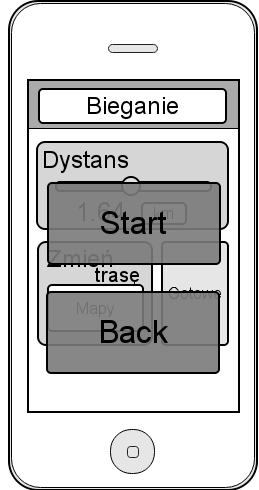
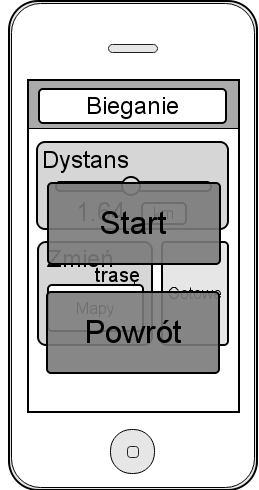
zpl, zpl..

Changed region(s): [[0.3089, 0.6429, 0.7104, 0.7041]]

diff --git a/prototyp.tex b/prototyp.tex
@@ -1,21 +1,22 @@
 \input{./main}
 \begin{document}
-\titlep{Prototyp interfejsu na iOS}{1.1}
+\titlep{Prototyp interfejsu do iOS}{1.2}
 \chist{1.0 & 2014-01-03 & Powstanie dokumentu & Łukasz Czapliński\\
         1.1 & 2014-01-18 & Tłumaczenie ekranów & Łukasz Czapliński\\
+        1.2 & 2014-01-19 & Poprawki językowe & Łukasz Czapliński\\
         }
 \setcounter{tocdepth}{2}
 \tableofcontents
 \clearpage
 \section{Wstęp}
 \subsection{Cel dokumentu}
-\noindent Ninejszy dokument opisuje makietę interfejsu aplikacji ,,Iron Coach'' w wersji na iOS. Ma ona służyć za podstawę dla gotowej aplikacji. Wymienione zostały problemy, na jakie należy zwrócić uwagę podczas implementacji, razem z sugerowanymi rozwiązaniami. W żadnym wypadku nie jest to kompletna lista i wszystkie aspekty powinny zostać przetestowane.
+\noindent Ninejszy dokument opisuje makietę interfejsu aplikacji ,,Iron Coach'' w wersji przeznaczonej dla systemu iOS. Ma ona służyć za podstawę do opracowania ostatecznego interfejsu aplikacji. Wymienione zostały problemy, na jakie należy zwrócić uwagę podczas implementacji, razem z sugerowanymi rozwiązaniami. W żadnym wypadku nie jest to lista kompletna i wszystkie aspekty powinny zostać przetestowane.
 \subsection{Struktura dokumentu}
-\noindent Dokument ten podzielony jest na dwie sekcje: pierwszą z nich stanowi wstęp, natomiast drugą właściwa makieta wraz z opisem. Druga sekcja podzielona jest na podsekcje, z których każda opisuje jeden ekran aplikacji. W każdej podsekcji znajduje się makieta ekranu oraz opis przycisków (wraz z ekranami do których powinny prowadzić). Dodatkowo czasem znajduje się też lista ostrzeżeń -- potencjalnych błędnych danych, jakie może wprowadzić użytkownik na danym ekranie aplikacji.
+\noindent Dokument jest podzielony na dwie sekcje: pierwszą z nich stanowi wstęp, natomiast drugą właściwa makieta wraz z opisem. Druga sekcja jest podzielona na podsekcje, z których każda opisuje jeden ekran aplikacji. W każdej podsekcji znajduje się makieta ekranu oraz opis przycisków (wraz z ekranami, do których powinny prowadzić). Dodatkowo czasem znajduje się też lista ostrzeżeń o potencjalnie błędnych danych, które użytkownik może wprowadzić na danym ekranie aplikacji.
 \section{Makieta}
 \subsection{Ekran główny}
 \subsubsection{Opis}
-\noindent Jest to ekran witający użytkownika po uruchomieniu aplikacji ,,Iron Coach''. Powinien zmieniać się, odzwierciedlając postępy użytkownika: jeśli użytkownik często biega, to powinien znaleźć się tam przycisk od tej właśnie aktywności. Jeśli jest to pierwsze uruchomienie aplikacji, to powinien zachęcić użytkownika do aktywności. Zamieszczono przykładowe makiety dla pierwszego uruchomienia oraz dla użytkownika biegającego często.
+\noindent Jest to ekran witający użytkownika po uruchomieniu aplikacji ,,Iron Coach''. Powinien tak się zmieniać aby, odzwierciedlając postępy użytkownika: jeśli użytkownik często biega, to powinien znaleźć się tam przycisk prowadzący do modułu aplikacji odpowiadającego za bieganie. Jeśli jest to pierwsze uruchomienie aplikacji, to powinny znaleźć się na nim zachęty dla użytkownika do pierwszego treningu z aplikacją. Zamieszczono przykładowe makiety ekranu dla pierwszego uruchomienia aplikacji oraz dla użytkownika biegającego często.
 \subsubsection{Ekrany}
 \begin{minipage}{0.5\textwidth}
   \label{G1}
@@ -29,16 +30,16 @@
 Przyciski:\\
 \begin{description}
   \item[Start] -- powinien prowadzić do ekranu wyboru sportów (rys. ~\ref{S1}). Tekst powinien odzwierciedlać stan treningu użytkownika -- jak długo już trenuje z aplikacją, szczególne osiągnięcia.
-  \item[Ikonka ustwień] -- powinna prowadzić do ekranu opcji. Nie powinna mieć na sobie żadnego tekstu. Ekran opcji powinien zawierać różne opcje, w zależności od platformy i implementacji, pozwalające na dopasowanie działania aplikacji do oczekiwań użytkownika.
+  \item[Ikonka ustwień] -- powinna prowadzić do ekranu opcji. Nie powinna mieć na sobie żadnego tekstu. Ekran opcji powinien zawierać różne opcje, zależnie od platformy i implementacji, pozwalające na dopasowanie działania aplikacji do oczekiwań użytkownika.
   \item[Iron Coach] -- napis na górnym pasku powinien zawierać powiadomienia o nowych dla użytkownika rzeczach (osiągnięciach, otrzymanych nagrodach). Mogą to być przyciski do bardziej szczegółowych opisów.
-  \item[Ikonka kalendarza] -- powinna pozwalać na przejście do ekranu, w którym użytkownik może zobaczyć poprzednie treningi z aplikacją i ich podsumowania.
-  \item[Ikonka skrótów] -- po jej naciśnięciu użytkownik powinien mieć możliwosć modyfikacji ekranu głównego przez dodanie nowych przycisków -- p. dodatkowe przyciski, poniżej. Powinno odbywać się to w stylu zgodnym z platformą na jakiej aplikacjia jest uruchomiona.
-  \item[Dodatkowe przyciski] -- powinny pojawiać się w miarę treningu użytkownika z aplikacją, np. jeśli dużo biega to powinien pojawić się tu przycisk ,,Bieganie'', taki sam jak w ekranie wyboru sportów (rys.~\ref{S1}, rys.~\ref{PR}). Ułatwi to użytkownikowi szybkie rozpoczynanie treningów, bez zbędnego kilkania.
+  \item[Ikonka kalendarza] -- powinna umożliwiać przejście do ekranu, w którym użytkownik może zobaczyć poprzednie treningi z aplikacją i ich podsumowania.
+  \item[Ikonka skrótów] -- po jej naciśnięciu użytkownik powinien mieć możliwość modyfikacji ekranu głównego przez dodanie nowych przycisków -- por. dodatkowe przyciski, poniżej. Powinno odbywać się to w stylu zgodnym z platformą, na której aplikacja jest uruchomiona.
+  \item[Dodatkowe przyciski] -- powinny pojawiać się w miarę treningu użytkownika z aplikacją, np. jeśli dużo biega, to powinien pojawić się tu przycisk ,,Bieganie'', taki sam jak w ekranie wyboru sportów (rys.~\ref{S1}). Ułatwi to użytkownikowi szybkie rozpoczynanie treningów, bez zbędnego kilkania.
 \end{description}
 \end{minipage}
 \subsection{Sporty}
 \subsubsection{Opis}
-\noindent Podobnie jak w ekranie głównym, ekran ten powinien dopasowywać się do użytkownika. Tutaj powinno odbywać się to przez pojawianie się dodatkowego tekstu na przyciskach, opisującego stan treningu w danym trybie. Aplikacja powinna pozwalać na dodanie nowych trybów treningowych. Z tego ekranu powinno być możliwe przejście do każdego z dostępnych aktualnie trybów treningowych.
+\noindent Podobnie jak w ekranie głównym, ekran ten powinien dopasowywać się do użytkownika. Tutaj powinno odbywać się to przez pojawianie się dodatkowego tekstu na przyciskach, opisującego stan treningu w danym trybie. Aplikacja powinna umożliwiać dodawanie nowych trybów treningowych. Z tego ekranu powinno być możliwe przejście do każdego z dostępnych aktualnie trybów treningowych.
 \subsubsection{Ekran}
 \begin{minipage}{0.5\textwidth}
   \label{S1}
@@ -51,14 +52,14 @@ Przyciski:\\
 \begin{minipage}{0.5\textwidth}
 Przyciski:\\
 \begin{description}
-  \item[Pobierz więcej] -- powinien pozwalać na dodanie (np. pobranie ze sklepu, instalacja z wcześniej pobranej paczki lub wpisanie klucza) dodatkowego trybu treningowego.
+  \item[Pobierz więcej] -- powinien umożliwiać dodanie (np. pobranie ze sklepu, zainstalowanie z wcześniej pobranej paczki lub wpisanie klucza) dodatkowego trybu treningowego.
   \item[Powrót] -- cofnięcię się do poprzedniego ekranu (w tym przypadku głównego).
   \item[Dodatkowe przyciski] -- dla każdego dostępnego trybu treningowego powinien być osobny przycisk (np. rys.~\ref{PR}), którego wygląd powinien odzwierciedlać postępy użytkownika w tym trybie.
 \end{description}
 \end{minipage}
 \subsection{Bieganie}
 \subsubsection{Opis}
-\noindent W podstawowj wersji, aplikacja ,,Iron Coach'' powinna zawierać przynajmniej moduł do biegania, którego makieta została tutaj opisana. Ekran ,,Bieganie'' pozwala na wybranie, w jakim trybie użytkownik chce biec. Dostępny powinien być przynajmniej tryb ,,Dystans''.
+\noindent W podstawowej wersji, aplikacja ,,Iron Coach'' powinna zawierać przynajmniej moduł do biegania, którego makieta została tutaj opisana. Ekran ,,Bieganie'' pozwala na wybranie, w jakim trybie użytkownik chce biec. Dostępny powinien być przynajmniej tryb ,,Dystans''.
 \subsubsection{Ekran}
 \begin{minipage}{0.5\textwidth}
   \label{PR}
@@ -69,12 +70,12 @@ Przyciski:\\
 Przyciski:\\
 \begin{description}
   \item[Powrót] -- powinien cofać do ekranu, z którego użytkownik przeszedł do obecnego.
-  \item[Dodatkowe przyciski] -- każdy z nich powinien przenosić do innego z dostępnych trybów treningowych (np. rys.~\ref{DR}), a wygląd powinien odzwierciedlać postępy w tym trybie.
+  \item[Dodatkowe przyciski] -- każdy (tutaj ,,Dystans'', ,,Czas'', ,,Biegnij'', ,,Sprint'') z nich powinien przenosić do innego z dostępnych trybów treningowych (np. rys.~\ref{DR}), a wygląd powinien odzwierciedlać postępy w tym trybie.
 \end{description}
 \end{minipage}
 \subsection{Dystans}
 \subsubsection{Opis}
-\noindent Ekran ten ma pozwolić użytkownikowi na dopasowanie, na jaki dokładnie dystans i jaką trasą chce biec. Ma dawać użytkownikowi możliwość trenigu progresywnego, przez wybieranie stopniowo dłuższych tras.
+\noindent Ekran ten ma umożliwiać użytkownikowi dopasowanie długości dystansu i określenie trasy. Ma dawać użytkownikowi możliwość trenigu progresywnego, przez wybieranie stopniowo dłuższych tras.
 \subsubsection{Ekran}
 \begin{minipage}{0.5\textwidth}
   \label{DR}
@@ -86,15 +87,15 @@ Przyciski:\\
 \begin{description}
   \item[Powrót] -- powinien cofać do ekranu, z którego użytkownik przeszedł do obecnego.
   \item[Gotowe] -- powinien przenosić do ekranu potwierdzenia (rys.~\ref{RR}).
-  \item[Dystans] -- powinien pozwalać na wybór długośći trasy. Wybór ten powinien być uwzględniony przy tworzeniu przykładowej trasy, jaka zostanie zaproponowana. Dodatkowe przebiegnięcie tego dystansu powinno być zasygnalizowane użytkownikowi.
-  \item[Mapy] -- powinien przenosić do ekranu mapy (rys.~\ref{M}) i dopasowanie szczegółów trasy.
+  \item[Dystans] -- powinien umożliwiać wybór długości trasy. Wybór ten powinien być uwzględniony przy tworzeniu przykładowej trasy, która zostanie zaproponowana. Dodatkowe przebiegnięcie tego dystansu powinno być zasygnalizowane użytkownikowi.
+  \item[Mapy] -- powinien przenosić do ekranu mapy (rys.~\ref{M}), pozwalającego na dopasowanie szczegółów trasy.
 \end{description}
 \end{minipage}
 \subsubsection{Ostrzeżenia}
 \noindent Może okazać się, że użytkownik wybierze bardzo długi lub krótki dystans (ogólnie lub w porównaniu z poprzednimi). Przed przejściem do kolejnego ekranu należy się upewnić, czy nie był to przypadek.
 \subsection{Mapy}
 \subsubsection{Opis}
-\noindent Tutaj użytkownik powinien mieć możliwość dopasowania szczegółów trasy, jaką chce pobiec. Kilka tras powinno być już zasugerowanych (na podstawie poprzednich, wybranego dystansu, często bieganych przez innych użytkowników, itd).
+\noindent Tutaj użytkownik powinien mieć możliwość dopasowania szczegółów trasy, którą chce pobiec. Kilka tras powinno być już zasugerowanych (na podstawie poprzednich, wybranego dystansu, często bieganych przez innych użytkowników, itd).
 \subsubsection{Ekran}
 \begin{minipage}{0.5\textwidth}
   \label{M}
@@ -105,16 +106,16 @@ Przyciski:\\
 Przyciski:\\
 \begin{description}
   \item[Powrót] -- powinien cofać do ekranu, z którego użytkownik przeszedł do obecnego.
-  \item[Strzałki] -- powinny pozwalać na wybór w kilku sugerowanych tras.
+  \item[Strzałki] -- powinny umożliwiać wybór spośród kilku sugerowanych tras.
   \item[OK] -- powinien zatwierdzać wybór trasy.
-  \item[Mapa] -- klikanie i przeciąganie trasy na mapie powinno modyfikować trasę. Ogólnie nawigacja mapą powinna być znana użytkownikowi z innych aplikacji (np Google Maps©).
+  \item[Mapa] -- klikanie i przeciąganie trasy na mapie powinno modyfikować trasę. Ogólnie nawigacja z użyciem mapy powinna być znana użytkownikowi z innych aplikacji (np. Google Maps©).
 \end{description}
 \end{minipage}
 \subsubsection{Ostrzeżenia}
-\noindent Może okazać się, że nie można wyświetlić proponowanej trasy: może nie być pobrana, a użytkownik nie zezwolił na pobranie w tym momencie. Należy go o tym poinformować i nie wyświetlać tego ekranu. Może też się okazać, że wyłączony jest GPS i nie można ustalić pozycji użytkownika -- wówczas należy pozwolić użytkownikowi na własnoręczne wykreślenie trasy lub wybór z poprzednich. Może być i tak, że według danych aplikacji wybraną trasą nie można biec - np prowadzi przez rzekę bez mostu. O tym należy tylko poinformować użytkownika -- może okazać się, że wie o czymś, czego nie ma na mapie (lub potrafi dobrze pływać).
+\noindent Może się okazać, że nie można wyświetlić proponowanej trasy: może nie być pobrana, a użytkownik nie zezwolił na pobranie w tym momencie. Należy poinformować o tym użytkownika i nie wyświetlać tego ekranu. Może też się okazać, że wyłączony jest GPS i nie można ustalić pozycji użytkownika -- wówczas należy pozwolić użytkownikowi na własnoręczne wykreślenie trasy lub wybór z poprzednich. Może być i tak, że według danych aplikacji wybraną trasą nie można biec -- np. prowadzi ona przez rzekę bez mostu. O tym należy tylko poinformować użytkownika -- może okazać się, że wie o czymś, czego nie ma na mapie (lub potrafi dobrze pływać).
 \subsection{Gotów do biegu}
 \subsubsection{Opis}
-\noindent Celem tego ekranu jest upewnienie się, że użytkownik wybrał już wszystkie opcje i chce rozpocząć bieg. 
+\noindent Celem tego ekranu jest upewnienie się, że użytkownik określił już wszystkie szczegóły i chce rozpocząć bieg. 
 \subsubsection{Ekran}
 \begin{minipage}{0.5\textwidth}
   \label{RR}
@@ -140,13 +141,13 @@ Przyciski:\\
 \begin{minipage}{0.5\textwidth}
 Przyciski:\\
 \begin{description}
-  \item[Zablokowany/Odblokowany] -- pozwala zablokować ekran, by nie dało się nic kliknąć: sposób odblokowania właściwy do platformy z jakiej korzysta użytkownik, na iOS-ie może to być suwak który trzeba przesunąć.
+  \item[Zablokowany/Odblokowany] -- pozwala zablokować ekran, by nie dało się nic kliknąć: sposób odblokowania właściwy do platformy, z której korzysta użytkownik, w systemie iOS może to być suwak który trzeba przesunąć.
   \item[Przerwa] -- powinien pauzować bieg (rys.~\ref{RP}).
 \end{description}
 \end{minipage}
 \subsection{Pauza}
 \subsubsection{Opis}
-\noindent Ekran ten powinien być włączony, gdy użytkownik nie biegnie -- może się włączać automatycznie. Przestój może oznaczać, że użytkownik się zmęczył i chce przerwać bieg, rozmawia ze znajomym lub próbuje się zorientować jak biec dalej, bo trasa jaką planował jest zablokowana.
+\noindent Ekran ten powinien być włączony, gdy użytkownik nie biegnie -- może się włączać automatycznie. Postój może oznaczać, że użytkownik się zmęczył i chce przerwać bieg, rozmawia ze znajomym i/lub próbuje się zorientować którędy biec dalej, bo trasa którą zaplanował jest zablokowana.
 \subsubsection{Ekran}
 \begin{minipage}{0.5\textwidth}
   \label{RP}
@@ -156,9 +157,9 @@ Przyciski:\\
 \begin{minipage}{0.5\textwidth}
 Przyciski:\\
 \begin{description}
-  \item[Kontynuuj] -- pozwala na kontynuację biegu.
+  \item[Kontynuuj] -- umożliwia kontynuowanie biegu.
   \item[Zakończ] -- użytkownik chce zakończyć aktualny bieg (rys.~\ref{RS}).
-  \item[Zmień] -- trasa przestała odpowiadać użytkownikowi, chce ją zmienić. Przenosi do ekranu ,,Maps'' (rys.~\ref{M}).
+  \item[Zmień] -- trasa przestała odpowiadać użytkownikowi, chce ją zmienić. Przenosi do ekranu ,,Mapy'' (rys.~\ref{M}).
 \end{description}
 \end{minipage}
 \subsection{Podsumowanie}
@@ -173,9 +174,9 @@ Przyciski:\\
 \begin{minipage}{0.5\textwidth}
 Przyciski:\\
 \begin{description}
-  \item[OK] -- pozwala na przejście dalej: jego zachowanie powinno być różne w zależności skąd użytkownik przeszedł do tego ekranu. Jeśli poprzednim ekranem był ekran biegu, to ten przycisk powinien przenosić do ekranu głównego. Jeśli był to ekran historii, to ten przycisk powinien do niego cofać.
-  \item[?] -- pozwala na poprawę szczegółów: być może trasa została źle wyznaczona lub dystans czy czas były inne (błąd pomiaru).
-  \item[Jak się czujesz?] -- powinien pozwalać użytkownikowi na zapisanie dodatkowej obserwacji związanej z tym biegiem: jak się po nim czuł (rys.~\ref{HF}). Pozwoli to na ocenę, jak użytkownik lubi biegać.
+  \item[OK] -- przejście dalej: dalsze działanie zależy od tego, skąd użytkownik przeszedł do tego ekranu. Jeśli poprzednim ekranem był ekran biegu, to ten przycisk powinien przenosić do ekranu głównego. Jeśli był to ekran historii, to ten przycisk powinien do niego cofać.
+  \item[?] -- poprawianie szczegółów: być może trasa została źle wyznaczona lub dystans albo czas były inne (błąd pomiaru).
+  \item[Jak się czujesz?] -- powinien pozwalać użytkownikowi na zapisanie dodatkowej obserwacji związanej z tym biegiem: jak się po nim czuł (rys.~\ref{HF}). Pozwoli to na ocenę, jak użytkownik lubi (lub powinien) biegać.
 \end{description}
 \end{minipage}
 \subsubsection{Ostrzeżenia}

diff --git a/zalozenia.tex b/zalozenia.tex
@@ -1,48 +1,50 @@
 \input{./main}
 \begin{document}
-\titlep{Założenia ogólne}{1.1}
+\titlep{Założenia ogólne}{1.2}
 \chist{1.0 & 2013-10-26 & Powstanie dokumentu & Łukasz Czapliński\\
-        1.1 & 2013-11-28 & Rozwinięcie sekcji dot użytkownika, prognoz i wymagań & Łukasz Czapliński\\}
+        1.1 & 2013-11-28 & Rozwinięcie sekcji dot.  użytkownika, prognoz i wymagań & Łukasz Czapliński\\
+        1.2 & 2014-01-19 & Poprawki językowe & Łukasz Czapliński\\
+        }
 \tableofcontents
 \clearpage
 \section{Wprowadzenie}
 \subsection{Cel dokumentu}
-\noindent Poniższy dokument ma na celu przedstawienie pokrótce projektu ,,Iron Coach'' i jego celu -- aplikacji mobilnej. Jest to zarys bardziej szczegółowych specyfikacji rozwiniętych w pozostałej części dokumentacji projektu. Przedstawiono cele projektu, typowego użytkownika aplikacji oraz jego wymagania wobec niej, jak również prognozy dotyczące realizacji i odbioru projektu. Następnie wypisano wymagania stawiane projektowi. Przedstawiono również, jakie pomoce dla użytkownika (dokumentacja) będą dołączone do aplikacji.
+\noindent Poniższy dokument ma na celu przedstawienie pokrótce projektu ,,Iron Coach'' i jego celu -- aplikacji mobilnej. Jest to zarys bardziej szczegółowych specyfikacji rozwiniętych w pozostałej części dokumentacji projektu. Przedstawiono cele projektu, typowego użytkownika aplikacji oraz jego wymagania wobec niej, jak również prognozy dotyczące realizacji i odbioru projektu. Następnie wypisano wymagania stawiane projektowi. Przedstawiono również, która część dokumentacji będzie dołączona do aplikacji.
 \subsection{Cel i nazwa projektu}
 \noindent Projekt ,,Iron Coach'' ma na celu napisanie aplikacji na urządzenia mobilne, której użytkownikami mają docelowo być osoby uprawiające różnego rodzaje sporty. Ma ona pomagać im w treningach, ułatwiając ich planowanie oraz motywując do osiągania lepszych wyników. \\
 Potrzeby użytkowników, które ma zaspokajać ta aplikacja, można opisać bardzo prosto:\\ 
 \indent ,,Wiele osób uprawiających sporty odczuwa brak różnorakich udogodnień (np. mierzenie dystansu dla biegaczy, znajdywanie tras rowerowych dla cyklistów, drogi widokowej dla turystów, układanie planu treningów dla początkujących), które można rozwiązać aplikacją mobilną.''\cite{Ba}
 Rozwiązanie właśnie tych problemów jest celem projektu ,,Iron Coach''. 
-Nazwa projektu wzięła się z prostego zapożyczenia: tak jak ,,Iron Man©'' jest geniuszem w swojej dziedzinie, tak ,,Iron Coach'' będzie idealnym trenerem. Planowane jest opracowanie wersji aplikacji w języku angielskim w celu udostępnienia jej nie tylko dla polskim użytkownikom.
+Nazwa projektu wzięła się z prostego zapożyczenia: tak jak ,,Iron Man©'' jest geniuszem w swojej dziedzinie\cite{Ir}, tak ,,Iron Coach'' będzie idealnym trenerem. Planowane jest opracowanie wersji aplikacji w języku angielskim w celu udostępnienia jej nie tylko dla polskich użytkowników.
 \section{Charakterystyka docelowego użytkownika}
-\noindent Wedle danych GUS-u(\cite{Gu}), ponad 37\% mieszkańców Polski uprawia różne sporty. Wiekszość z nich to amatorzy o średnich dochodach. Właśnie oni mają stać się użytkownikami aplikacji ,,Iron Coach''. Badanie wykonane w fazie wstępnej projektu (\cite{Ba}) pokazują, że wielu amatorów sportu odczuwa problemy, które mogą być polem dla wielu innowacji.
+\noindent Wedle danych GUS-u(\cite{Gu}) ponad 37\% mieszkańców Polski uprawia różne sporty. Wiekszość z nich to amatorzy o średnich dochodach. Właśnie oni mają stać się użytkownikami aplikacji ,,Iron Coach''. Badanie wykonane w fazie wstępnej projektu \cite{Ba} pokazują, że wielu amatorów sportu odczuwa problemy, które mogą być polem dla wielu innowacji.
 \\Podsumowując, docelowy użytkownik aplikacji ,,Iron Coach'':
 \begin{itemize}
-  \item posiada smartfona,
+  \item posiada smartfon,
   \item uprawia sport (amatorsko lub profesjonalnie),
   \item ma niezaspokojne problemy związane ze swoim sportem, na przykład:
     \begin{itemize}
       \item nie potrafi sam ułożyć planu treningowego,
       \item chciałby śledzić swoje osiągnięcia,
-      \item potrzebuje motywacji, by trenować regularnie.
+      \item potrzebuje zachęty, by trenować regularnie.
     \end{itemize}
 \end{itemize}
 \section{Prognozy realizacji projektu i odbioru aplikacji}
 \subsection{Realizacja projektu}
-\noindent Prognozy dotyczące projektu i aplikacji można tworzyć na podstawie wielu obserwacji. Badania prowadzone w fazie wstępnej projektu ,,Iron Coach'' \cite{Ba} dotyczyły rynku aplikacji skierowanych do sportowców. Wynikało z nich, że większość dostępnych na rynku aplikacji jest tworzona amatorsko i w związku z tym obciążona dużą ilością błędów związanych z brakiem kontroli jakości. Jednocześnie nie są one trudne do napisania (p. \ref{pfunk}). Można więc twierdzić, iż projekt ,,Iron Coach'' ma wysokie szanse stworzenia aplikacji wolnej od błędów w określonym harmonogramem terminie (ok. 7 miesięcy, patrz \cite{Ha}). 
+\noindent Prognozy dotyczące projektu i aplikacji zostały stworzone na podstawie wielu obserwacji. Badania prowadzone w fazie wstępnej projektu ,,Iron Coach'' \cite{Ba} dotyczyły rynku aplikacji skierowanych do sportowców. Wynikało z nich, że większość dostępnych na rynku aplikacji jest tworzona amatorsko i w związku z tym obciążona dużą ilością błędów związanych z brakiem kontroli jakości. Jednocześnie nie są one trudne do napisania (p. \ref{pfunk}). Można więc twierdzić, że projekt ,,Iron Coach'' daje duże szanse na powstanie aplikacji wolnej od błędów w określonym harmonogramem terminie (około 7 miesięcy, patrz \cite{Ha}). 
 \subsection{Odbiór aplikacji}
-\noindent Badano również rynek gadżetów dla amatorów sportów. Z dynamicznego rozwoju tego rynku można wnioskować, że wielu ludzi wydaje pieniądze na pomoce, jak np: ciśnieniomierz, gps, aparatu do pomiaru wyników i układania planów treningowych. Wszystkie te gadżety mogą być zastąpione przez jedną aplikację mobilną. Dodatkowa zintegrowanie jej z serwisem internetowym i opracowanie wersji na komputery osobiste daje pole do rozwoju. Można więc śmiało wnioskować, że aplikacja ,,Iron Coach'' znajdzie odbiorców w dużej liczbie. \\
-Podsumowując, wysokie szanse realizacji i rozwoju połączone z bogatą rzeszą odbiorców pozwalają dobrze rokować powodzeniu projektu ,,Iron Coach''.
+\noindent Badano również rynek gadżetów dla amatorów sportów. Z dynamicznego rozwoju tego rynku można wnioskować, że wielu ludzi wydaje pieniądze na pomoce, jak np: ciśnieniomierz, GPS, aparat do pomiaru wyników i układania planów treningowych. Wszystkie te gadżety mogą być zastąpione przez jedną aplikację mobilną. Dodatkowo zintegrowanie jej z serwisem internetowym i opracowanie wersji na komputery osobiste daje pole do rozwoju. Można więc śmiało wnioskować, że aplikacja ,,Iron Coach'' znajdzie odbiorców w dużej liczbie. \\
+\indent Podsumowując, wysokie szanse realizacji i rozwoju połączone z bogatą rzeszą odbiorców pozwalają dobrze rokować co do powodzenia projektu ,,Iron Coach''.
 \clearpage
 \section{Wymagania stawiane projektowi i aplikacji}
-\subsection{Podstawowe cechu funkcjonalne aplikacji}
+\subsection{Podstawowe cechy funkcjonalne aplikacji}
 \label{pfunk}
 \noindent Aplikacja ,,Iron Coach'' powinna umożliwiać użytkownikowi:
 \begin{itemize}
   \item planowanie harmonogramu treningów,
   \item łatwe motywowanie do regularnych treningów,
   \item śledzenie regularności i wyników treningów,
-  \item łatwe rozszerzanie o moduły treningowe (pobierane ze sklepu lub internetu), z których każdy powinien pozwalać na:
+  \item łatwe rozszerzanie o moduły treningowe (pobierane ze sklepu lub internetu), z których każdy powinien umożliwiać:
     \begin{itemize}
       \item wykonywanie wybranego przez użytkownika treningu,
       \item dopasowanie typu treningu do użytkownika,
@@ -60,28 +62,29 @@ Podsumowując, wysokie szanse realizacji i rozwoju połączone z bogatą rzeszą
       \item intuicyjny, 
       \item łatwy w obsłudze (oferujący pomoc kontekstową), 
     \end{itemize}
-  \item dobrze reagować na polecenia użytkownika (reakcja do 0.5 sek),
+  \item dobrze reagować na polecenia użytkownika (reakcja do 0,5 sek),
   \item dobrze oceniać trening użytkownika,
-  \item być niezawodna (mniej niż jeden błąd niekrytyczny na 2h treningów, brak błędów krytycznych),
-  \item być dostępna na co najmniej dwóch głównych platformach mobilnych: android i iOS,
-  \item być zgodna z wymogami i zaleceniami tworzenia aplikacji  na każdą platformę, na którą będzie działać (dopuszczalne jest, by wersje na osobne platformy posiadały inne interfejsy, każdy spełniający odpowiednie wymogi).
+  \item być niezawodna (mniej niż jeden błąd niekrytyczny na 2 godziny treningów, brak błędów krytycznych),
+  \item być dostępna na co najmniej dwóch głównych platformach mobilnych: Android i iOS,
+  \item być zgodna z wymogami i zaleceniami tworzenia aplikacji  na każdą platformę, na której będzie działać (dopuszczalne jest, by wersje na osobne platformy miały inne interfejsy, każdy spełniający odpowiednie wymogi).
 \end{itemize}
 \vspace{2pt}
-Projekt ,,Iron Coach'' powinien:
+Dokumentacja projektu ,,Iron Coach'' powinna:
 \begin{itemize}
   \item na bieżąco informować o postępach w tworzeniu aplikacji,
   \item nie ukrywać problemów w tworzeniu aplikacji,
-  \item spełniać wymogi zarządzania projektem PRINCE2(\cite{Pr}).
+  \item spełniać wymogi zarządzania projektem PRINCE2\cite{Pr}.
 \end{itemize}
 \section{Dokumentacja projektu}
-\noindent Częścią programu będzie pomoc kontekstowa, która powinna zaspokajać podstawowe potrzeby normalnego użytkownika. Potrzebę sięgnięcia do dokumentacji projektowej i użytkowej powinni odczuwać użytkownicy mający nietypowe potrzeby wobec aplikacji. Z tego powodu będzie ona udostępniona razem z kodem źródłowym aplikacji.
+\noindent Częścią programu będzie pomoc kontekstowa, która powinna zaspokajać podstawowe potrzeby typowego użytkownika. Potrzebę sięgnięcia do dokumentacji projektowej i użytkowej powinni odczuwać użytkownicy mający nietypowe potrzeby wobec aplikacji. Z tego powodu będzie ona udostępniona razem z kodem źródłowym aplikacji.
 \section{Słownik}
 \noindent Słownik specyficznych terminów, wymagających objaśnienia, użytych w tym i pozostałych dokumentach znajduje się w~\cite{Sł}.
 \begin{thebibliography}{99}
-  \bibitem{Ba} Przemysław Sierociński: {\it Iron Coach. Needfinding}. Wrocław, SPKCK IIUWr 2013
-  \bibitem{Gu} GUS, Departament Badań Społecznych i Warunków Życia, {\it KULTURA FIZYCZNA W POLSCE W LATACH 2008-2010}. Warszawa, 2011
-  \bibitem{Sł} Łukasz Czapliński, Diana Czepirska, Artur Jarocki: {\it Dokumentacja projektu Iron Coach. Słownik pojęć}. Wrocław, SPIO IIUWr 2013
-  \bibitem{Ha} Łukasz Czapliński, Diana Czepirska, Artur Jarocki: {\it Dokumentacja projektu Iron Coach. Harmonogram}. Wrocław, SPIO IIUWr 2013
+  \bibitem{Ba} Przemysław Sierociński: {\it Iron Coach. Needfinding}. Wrocław, SPKCK IIUWr 2013.
+  \bibitem{Gu} {\it KULTURA FIZYCZNA W POLSCE W LATACH 2008-2010} GUS, Departament Badań Społecznych i Warunków Życia. Warszawa 2011.
+  \bibitem{Sł} Łukasz Czapliński, Diana Czepirska, Artur Jarocki: {\it Dokumentacja projektu Iron Coach. Słownik pojęć}. Wrocław, SPIO IIUWr 2013.
+  \bibitem{Ha} Łukasz Czapliński, Diana Czepirska, Artur Jarocki: {\it Dokumentacja projektu Iron Coach. Harmonogram}. Wrocław, SPIO IIUWr 2013.
   \bibitem{Pr} PRINCE2 Official website, \url{http://www.prince-officialsite.com/}.
+  \bibitem{Ir} Tom DeFalco, Laura Gilbert: {\it Marvel Chronicle A Year by Year History.} Dorling Kindersley 2008. 
 \end{thebibliography}
 \end{document}

diff --git a/spis.tex b/spis.tex
@@ -1,9 +1,10 @@
 \input{./main}
 \begin{document}
-\titlep{Spis dokumentów}{1.2}
+\titlep{Spis dokumentów}{1.3}
 \chist{1.0 & 2013-10-27 & Powstanie dokumentu & Łukasz Czapliński\\
         1.1 & 2013-12-04 & Poprawa składu & Łukasz Czapliński\\
         1.2 & 2014-01-04 & Zmiana treści & Łukasz Czapliński\\
+        1.3 & 2014-01-19 & Poprawki językowe & Łukasz Czapliński\\
         }
 
 \newcommand{\quickbib}[1]{\item Łukasz Czapliński, Diana Czepirska, Artur Jarocki: {\it Dokumentacja projektu Iron Coach. #1}. Wrocław, SPIO IIUWr 2013.}
@@ -17,8 +18,8 @@
       \quickbib{Kosztorys}
       \quickbib{Analiza przypadków użycia}
       \quickbib{Harmonogram pracy}
-      \quickbib{Prototyp interfejsu na iOS}
-      \quickbib{Historia testowania}
+      \quickbib{Prototyp interfejsu do iOS}
+      \quickbib{Plan testowania}
 \end{enumerate}
 \vfill
 

diff --git a/main.tex b/main.tex
@@ -10,7 +10,7 @@
 \usepackage{listings,times}
 
 \usepackage{bbm}
-\usepackage[colorlinks=true, urlcolor=blue, linkcolor=black]{hyperref}
+\usepackage[colorlinks=false]{hyperref}
 \usepackage{url}
 \usepackage{graphicx}
 
@@ -47,6 +47,8 @@
 
 \widowpenalty=10000
 \clubpenalty=10000
+\linepenalty=1000
+\hyphenpenalty=10000
 \raggedbottom
 
 \renewcommand{\labelitemi}{}
